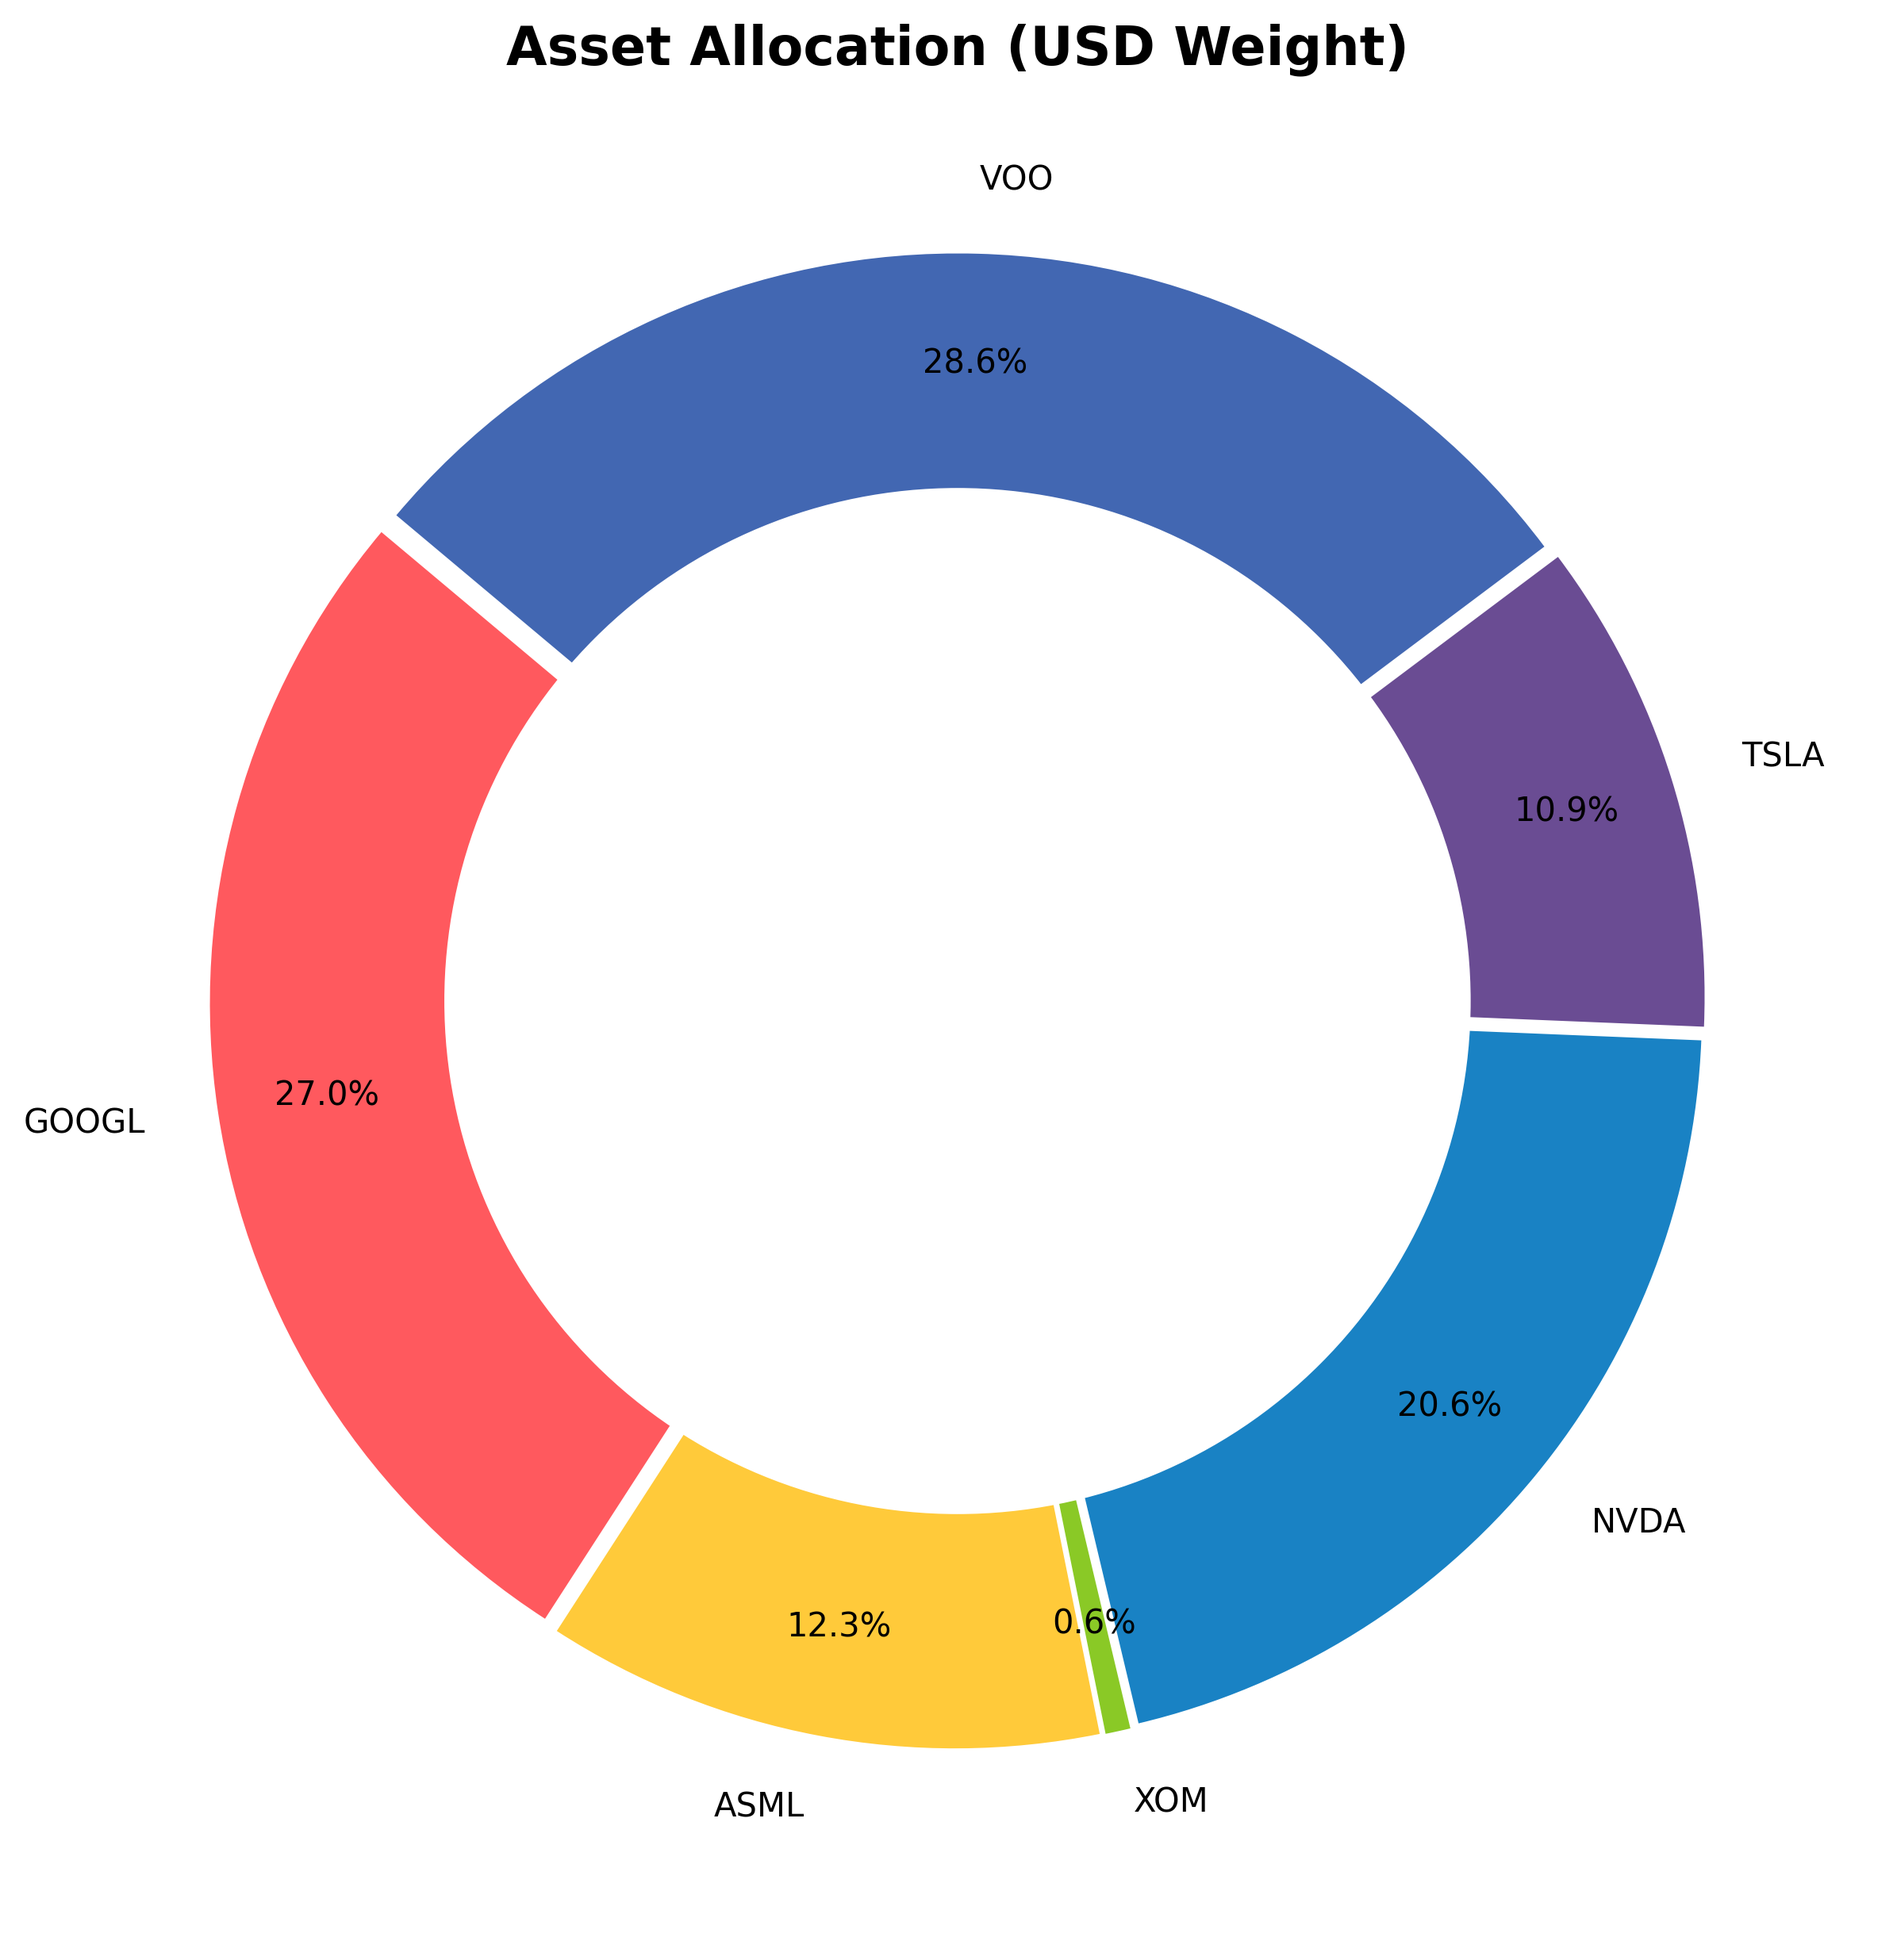
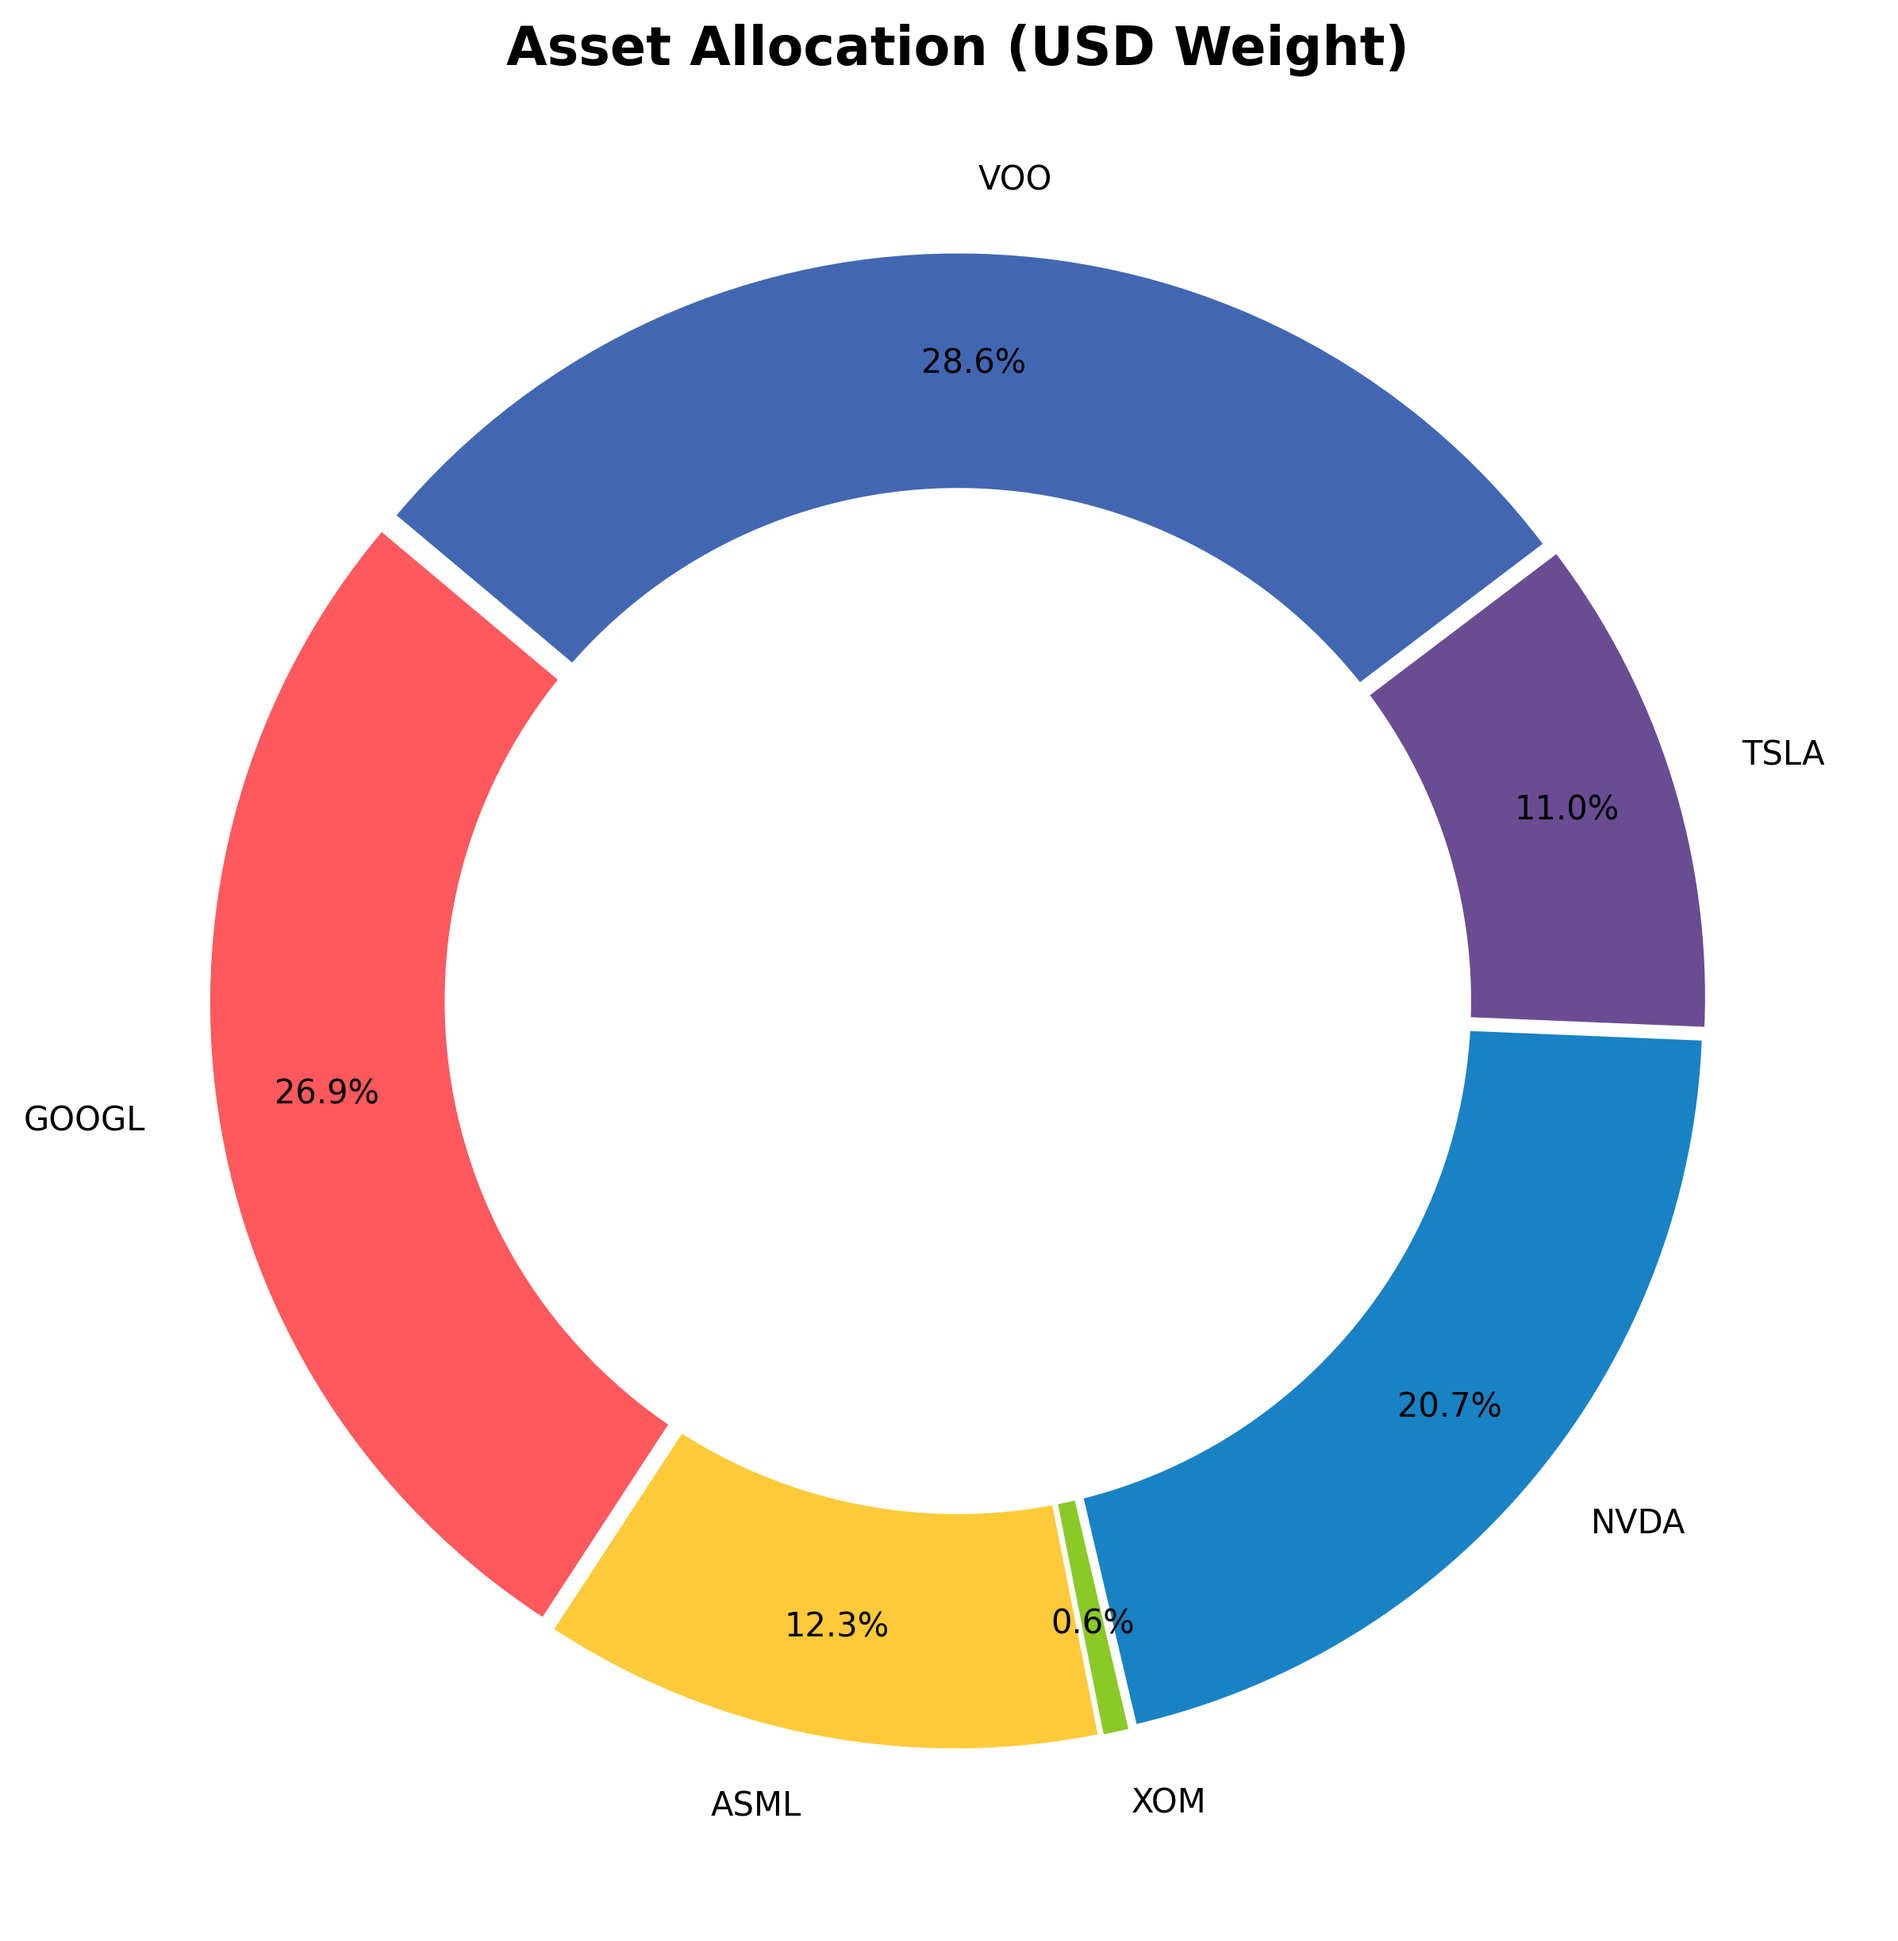
System Run: Analytics & Archive Update [skip ci]

diff --git a/README.md b/README.md
@@ -1,23 +1,23 @@
 # 📊 Portfolio Dashboard | מעקב תיק השקעות
-**Last Update:** 24/07/2026 22:36 | **USD/ILS:** ₪3.054
+**Last Update:** 25/07/2026 00:09 | **USD/ILS:** ₪3.049
 
 ## 💰 Portfolio Summary | סיכום התיק
 | Metric | Value | נתון |
 | :--- | :--- | :--- |
-| **Current Value** | `₪173,701` | **שווי נוכחי** |
-| **Total Invested** | `₪130,933` | **סך השקעה** |
-| **Total Profit/Loss** | `+32.66%` (₪42,768) | **רווח/הפסד כולל** |
-| **Daily Change** | `-0.81%` | **שינוי יומי** |
+| **Current Value** | `₪173,957` | **שווי נוכחי** |
+| **Total Invested** | `₪130,727` | **סך השקעה** |
+| **Total Profit/Loss** | `+33.07%` (₪43,230) | **רווח/הפסד כולל** |
+| **Daily Change** | `-0.50%` | **שינוי יומי** |
 
 ## 📜 Holdings | פירוט החזקות
 | Ticker | Shares | Avg. Cost | Current Price | P&L % | P&L ILS |
 | :--- | :--- | :--- | :--- | :--- | :--- |
-| GOOGL | 48 | $187.99 | $319.66 | 🟢 +70.04% | ₪19,302 |
-| ASML | 4 | $934.51 | $1,749.00 | 🟢 +87.16% | ₪9,950 |
-| XOM | 2 | $126.08 | $156.69 | 🟢 +24.28% | ₪187 |
-| NVDA | 57 | $148.62 | $205.84 | 🟢 +38.50% | ₪9,961 |
-| TSLA | 20 | $436.45 | $309.79 | 🔴 -29.02% | ₪-7,737 |
-| VOO | 24 | $527.38 | $678.87 | 🟢 +28.73% | ₪11,104 |
+| GOOGL | 48 | $187.99 | $319.77 | 🟢 +70.10% | ₪19,288 |
+| ASML | 4 | $934.51 | $1,757.35 | 🟢 +88.05% | ₪10,036 |
+| XOM | 2 | $126.08 | $156.93 | 🟢 +24.47% | ₪188 |
+| NVDA | 57 | $148.62 | $206.96 | 🟢 +39.25% | ₪10,140 |
+| TSLA | 20 | $436.45 | $313.00 | 🔴 -28.29% | ₪-7,529 |
+| VOO | 24 | $527.38 | $679.14 | 🟢 +28.78% | ₪11,106 |
 
 ## 📈 Charts | גרפים
 ![Performance](./data_hub/portfolio_performance.png)
